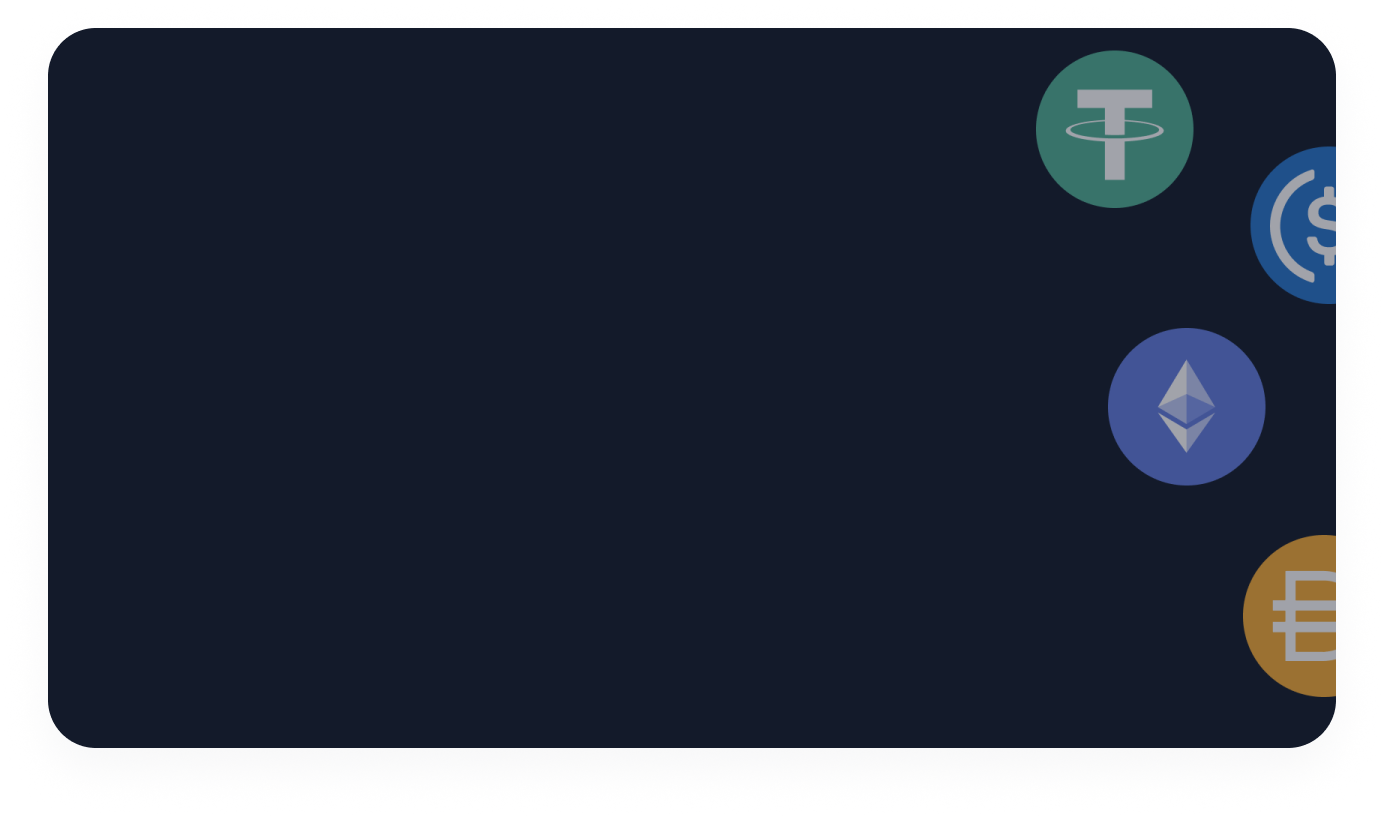
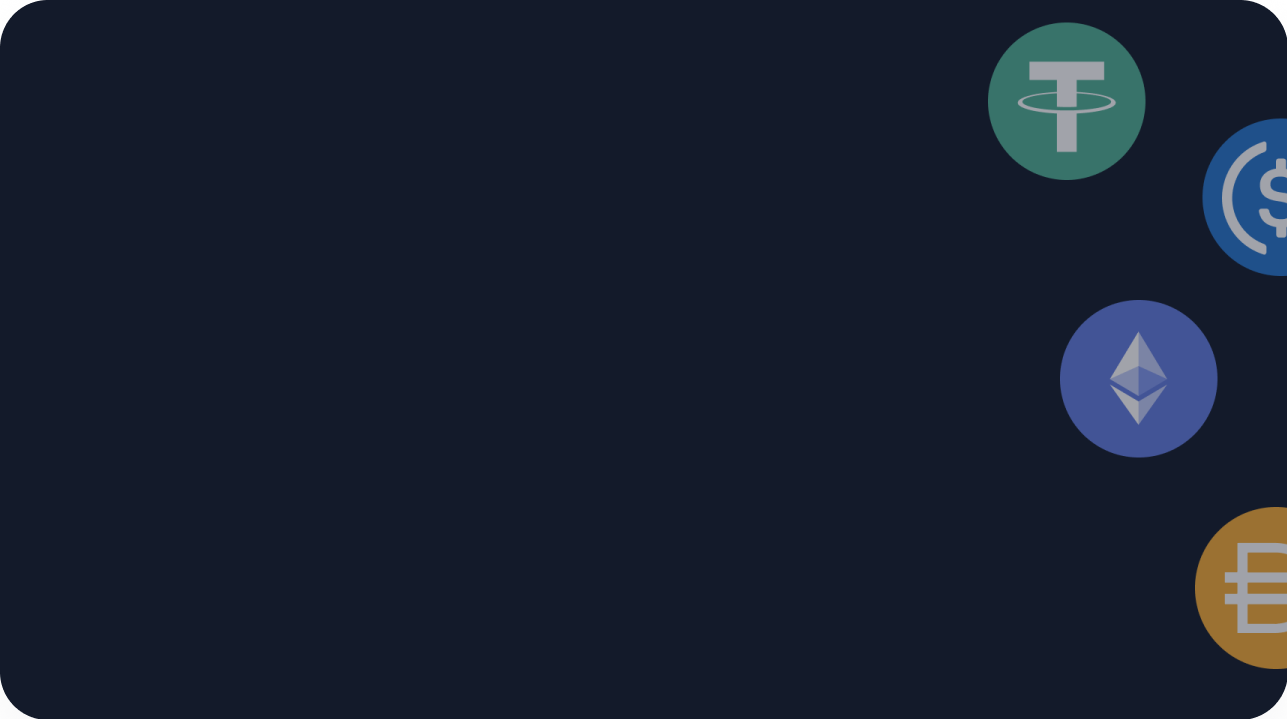
check

Changed region(s): [[0.0, 0.0, 1.0, 1.0]]

diff --git a/src/components/home2.js b/src/components/home2.js
@@ -8,27 +8,27 @@ import swap from '../assets/swap.png'
 const DemeterDesktop = () => {
     return (
         <div className="background h-fill overflow-clip">
-            <div className="flex flex-row justify-between h-20 items-center px-8">
+            <div className="flex flex-row justify-between h-20 items-center px-16">
                 <div>
                     <p className="text-md font-bold text-white ">D</p>
                 </div>
-                <div className="flex flex-row space-x-8 h-10 buttonz">
-                    <div class="flex items-center">
+                <div className="flex flex-row space-x-8 h-10 nice-purple-color">
+                    <div class="flex items-center hover:text-white">
                         <p>Lend</p>
                     </div>
-                    <div class="flex items-center">
+                    <div class="flex items-center hover:text-white">
                         <p>Earn</p>
                     </div>
-                    <div class="flex items-center">
+                    <div class="flex items-center hover:text-white">
                         <p>Borrow</p>
                     </div>
-                    <div class="flex items-center">
+                    <div class="flex items-center hover:text-white">
                         <p>Pool</p>
                     </div>
                 </div>
                 <div className="w-96  h-8 flex items-center searchbox rounded-md justify-between px-2">
                     <img src={magnify} className="h-6 opacity-50"></img>
-                    <p className="text-gray-400 font-light">
+                    <p className="nice-purple-color font-light">
                         Lending and RWA Yield
                     </p>
                     <div></div>
@@ -41,16 +41,14 @@ const DemeterDesktop = () => {
                             <p className="text-md font-medium text-white">Ethereum</p>
                         </div>
                     </div>
-                    <div className="flex flex-row items-center space-x-1 rounded-full nice-blue-color py-1 px-3">
-                        <p className="text-md font-medium connect-button">Connect</p>
-                        <p className="align-text-top">|</p>
-                        <img src={down_arrow} className="h-4 opacity-50"></img>
-                    </div>
+                    <button className="items-center rounded-full header-connect-button py-1 px-3">
+                        <p className="text-md font-medium nice-blue-color hover:text-white">Connect</p>
+                    </button>
                 </div>
             </div>
 
 
-            <div className="mainChunk flex flex-row border-0 border-white h-screen relative width-full justify-center px-8">
+            <div className="mainChunk flex flex-row border-0 border-white h-screen relative width-full justify-center px-16">
                 <div className="flex self-center z-10">
                     <div className="flex flex-row space-x-40">
                         <div className="space-y-3">
@@ -73,21 +71,22 @@ const DemeterDesktop = () => {
                 <div className="portal1 absolute left-1/4 top-1/2 "></div>
                 <div className="portal2 absolute left-1/2 top-1/3 "></div>
                 <div className="portal2 absolute left-3/4 top-1/4 "></div>
+                <div className="h-32 w-full glass absolute bottom-0"></div>
             </div>
 
-            <div className="features w-screen py-16 px-16 relative ">
+            <div className="features w-screen py-8 px-16 relative space-y-8">
                 <div className="flex flex-row justify-between">
-                    <div className="features-l1 flex flex-col justify-between rounded-3xl">
-                        <p className="text-xl text-white font-semibold pl-12 pt-8">Lend Tokens</p>
-                        <div className="pb-8 pl-12">
+                    <div className="features-l1 flex flex-col justify-between rounded-3xl px-8 py-8">
+                        <p className="text-xl text-white font-semibold">Lend Tokens</p>
+                        <div>
                             <p className="text-white font-md">Our self paying loans earn interest on</p>
                             <p className="text-white font-md">Real World Assets</p>
                             <p className="text-white font-md mt-8 nice-blue-color">lend Tokens</p>
                         </div>
                     </div>
-                    <div className="features-l1 flex flex-col justify-between rounded-3xl"  >
-                        <p className="text-xl text-white font-semibold pl-12 pt-8">Lend Tokens</p>
-                        <div className="pb-8 pl-12">
+                    <div className="features-l1 flex flex-col justify-between rounded-3xl px-8 py-8">
+                        <p className="text-xl text-white font-semibold">Lend Tokens</p>
+                        <div className="">
                             <p className="text-white font-md">Our self paying loans earn interest on</p>
                             <p className="text-white font-md">Real World Assets</p>
                             <p className="text-white font-md mt-8 nice-blue-color">lend Tokens</p>
@@ -95,21 +94,65 @@ const DemeterDesktop = () => {
                     </div>
                 </div>
 
-                <div className="flex flex-row justify-between">
-                    <div className="justify-between features-l2 flex flex-col">
-                        <p className="text-white font-semibold text-2xl pl-4 pt-4">Borrow Crypto</p>
-                        <p className="text-white font-thin">Leverage your crypto holdings to access liquidity in the asset of your choice.</p>
+                <div className="flex flex-row justify-between py-8">
+                    <div className="justify-between features-l2 flex flex-col rounded-3xl py-6 pl-6">
+                        <p className="text-white font-semibold text-2xl">Borrow Crypto</p>
+                        <p className="text-white font-thin nice-purple-color">Leverage your crypto holdings to access liquidity in the asset of your choice.</p>
                         <p className="nice-blue-color">Borrow now</p>
                     </div>
-                    <div className="justify-between features-l2 flex flex-col">
-                        <p className="text-white font-semibold text-2xl pl-4 pt-4">Borrow Crypto</p>
-                        <p className="text-white font-thin">Leverage your crypto holdings to access liquidity in the asset of your choice.</p>
+                    <div className="justify-between features-l2 flex flex-col rounded-3xl py-6 pl-6">
+                        <p className="text-white font-semibold text-2xl">Borrow Crypto</p>
+                        <p className="text-white font-thin nice-purple-color">Leverage your crypto holdings to access liquidity in the asset of your choice.</p>
                         <p className="nice-blue-color">Borrow now</p>
                     </div>
-                    <div className="justify-between features-l2 flex flex-col">
-                        <p className="text-white font-semibold text-2xl pl-4 pt-4">Borrow Crypto</p>
-                        <p className="text-white font-thin">Leverage your crypto holdings to access liquidity in the asset of your choice.</p>
+                    <div className="justify-between features-l2 flex flex-col rounded-3xl py-6 pl-6">
+                        <p className="text-white font-semibold text-2xl">Borrow Crypto</p>
+                        <p className="text-white font-thin nice-purple-color">Leverage your crypto holdings to access liquidity in the asset of your choice.</p>
                         <p className="nice-blue-color">Borrow now</p>
+                    </div>
+                </div>
+
+                <div className="w-full h-32 rounded-3xl giant-pill flex flex-row justify-between px-14 py-8 items-center">
+                    <div className="row row-col space-y-1">
+                        <p className="text-white font-bold text-2xl">Powered by the Demeter Labs Protocol</p>
+                        <p className="text-white font-thin text-xl">The worlds most innovative RWA investments by a global community.</p>
+                    </div>
+                    <button class="w-36 h-14 border-white border rounded-2xl">
+                        <p className="text-white font-thin text-lg">Learn more</p>
+                    </button>
+                </div>
+            </div>
+
+            <div className="w-screen">
+                <div nameClass="flex flex-row">
+                    <div nameClass="w-1/3">
+
+                    </div>
+                    <div className="w-2/3 flex flex-row justify-bew">
+                        <div>
+                            <p className="text-white text-sm font-semibold">App</p>
+                            <p className="text-white text-sm font-thin">Lend</p>
+                            <p className="text-white text-sm font-thin">Earn</p>
+                            <p className="text-white text-sm font-thin">Borrow</p>
+                            <p className="text-white text-sm font-thin">Pools</p>
+                        </div>
+                        <div>
+                            <p className="text-white text-sm font-semibold">Protocol</p>
+                            <p className="text-white text-sm font-thin">Community</p>
+                            <p className="text-white text-sm font-thin">Governance</p>
+                            <p className="text-white text-sm font-thin">Developers</p>
+                        </div>
+                        <div>
+                            <p className="text-white text-sm font-semibold">Company</p>
+                            <p className="text-white text-sm font-thin">Careers</p>
+                            <p className="text-white text-sm font-thin">Blog</p>
+                            <p className="text-white text-sm font-thin">Bounties</p>
+                        </div>
+                        <div>
+                            <p className="text-white text-sm font-semibold">Get Help</p>
+                            <p className="text-white text-sm font-thin">Contact Us</p>
+                            <p className="text-white text-sm font-thin">Help Center</p>
+                        </div>
                     </div>
                 </div>
             </div>

diff --git a/src/components/home2.css b/src/components/home2.css
@@ -1,22 +1,20 @@
 .nice-blue-color {
     color: #4C82FB;
 }
+.nice-purple-color {
+    color: #98A1C0;
+}
 
 
 .background {
     background: linear-gradient(180deg, #202738, #070816);
 }
 
-.buttonz {
-    color: #98A1C0;
-}
-
 .header-connect-button {
     background-color: rgb(76, 130, 251, 0.3);
 }
-
-.header-connect-button p {
-    color: #4C82FB
+.header-connect-button:hover {
+    background-color: rgb(76, 130, 251, 0.7);
 }
 
 .searchbox {
@@ -25,12 +23,6 @@
     border-color: rgb(255, 255, 255, 0.14);
     background-color: rgb(255, 255, 255, 0.07);
 }
-
-.sarchbox p {
-    color: #98A1C0;
-}
-
-
 
 
 .portal1 {
@@ -43,6 +35,7 @@
         rgba(166, 151, 255, 0)
     );
 }
+
 .portal2 {
     height: 982px;
     width: 550px;
@@ -53,6 +46,7 @@
         rgba(166, 151, 255, 0)
     );
 }
+
 .portal3 {
     height: 982px;
     width: 500px;
@@ -62,6 +56,10 @@
         rgb(30, 65, 238),
         rgba(166, 151, 255, 0)
     );
+}
+
+.glass {
+    background: linear-gradient(180deg, rgba(255, 255, 255, 0), #0f131e);
 }
 
 .get-started-button {
@@ -79,12 +77,23 @@
     width: 644px;
     height: 360px;
     background-image: url("../assets/tokens.png");
-    background-size: 100%;
+    background-position: right;
+    background-repeat: no-repeat;
+    background-size: cover;
+    background-position: left top;
 }
 
 .features-l2 {
     width: 420px;
     height: 240px;
-    background: #0D111C;
+    background: #060614;
     border: #1B2236 0.25px solid;
+}
+
+.giant-pill {
+    background: radial-gradient(
+        100% 120%,
+        #4673FA,
+        rgba(166, 151, 255, 0)
+    );
 }
